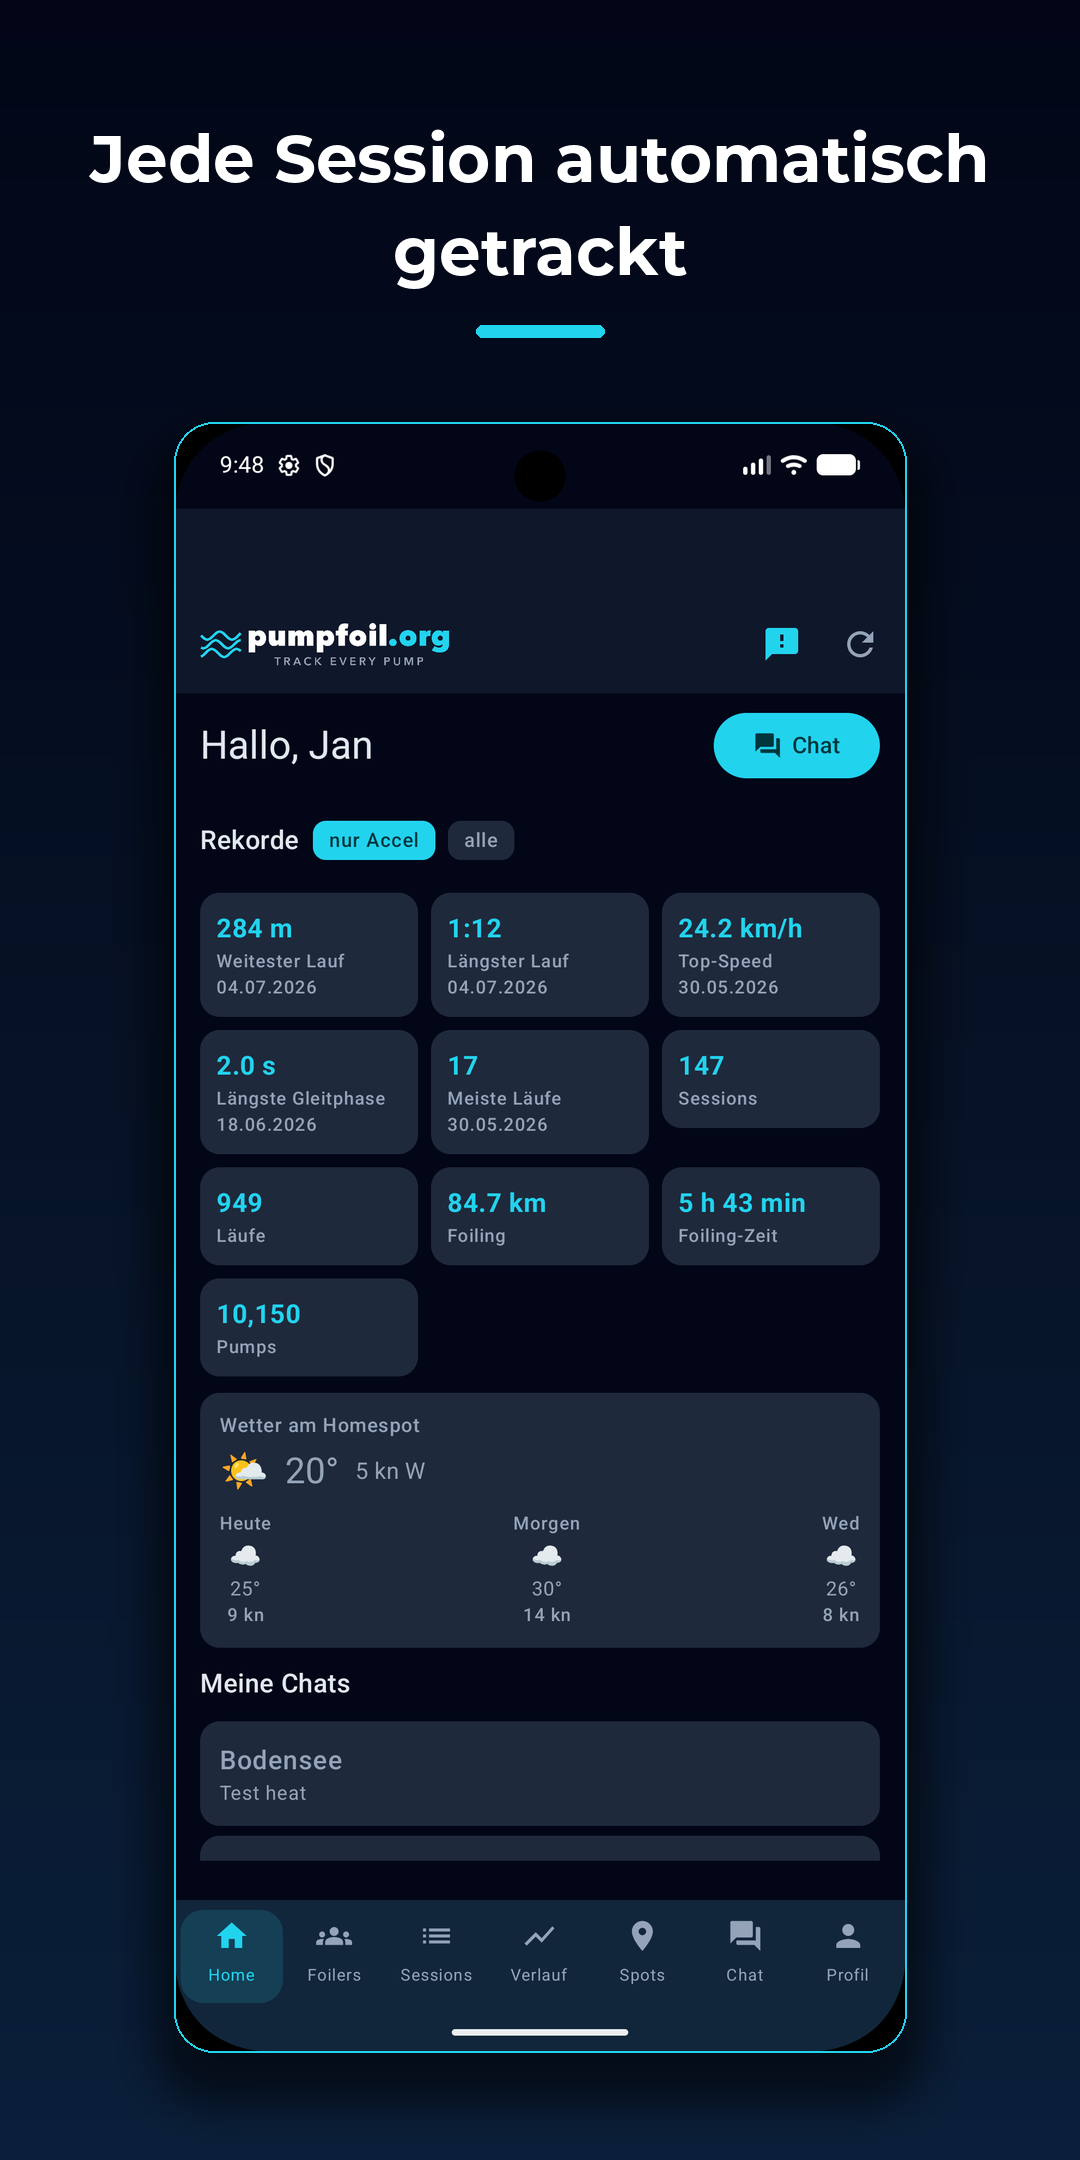
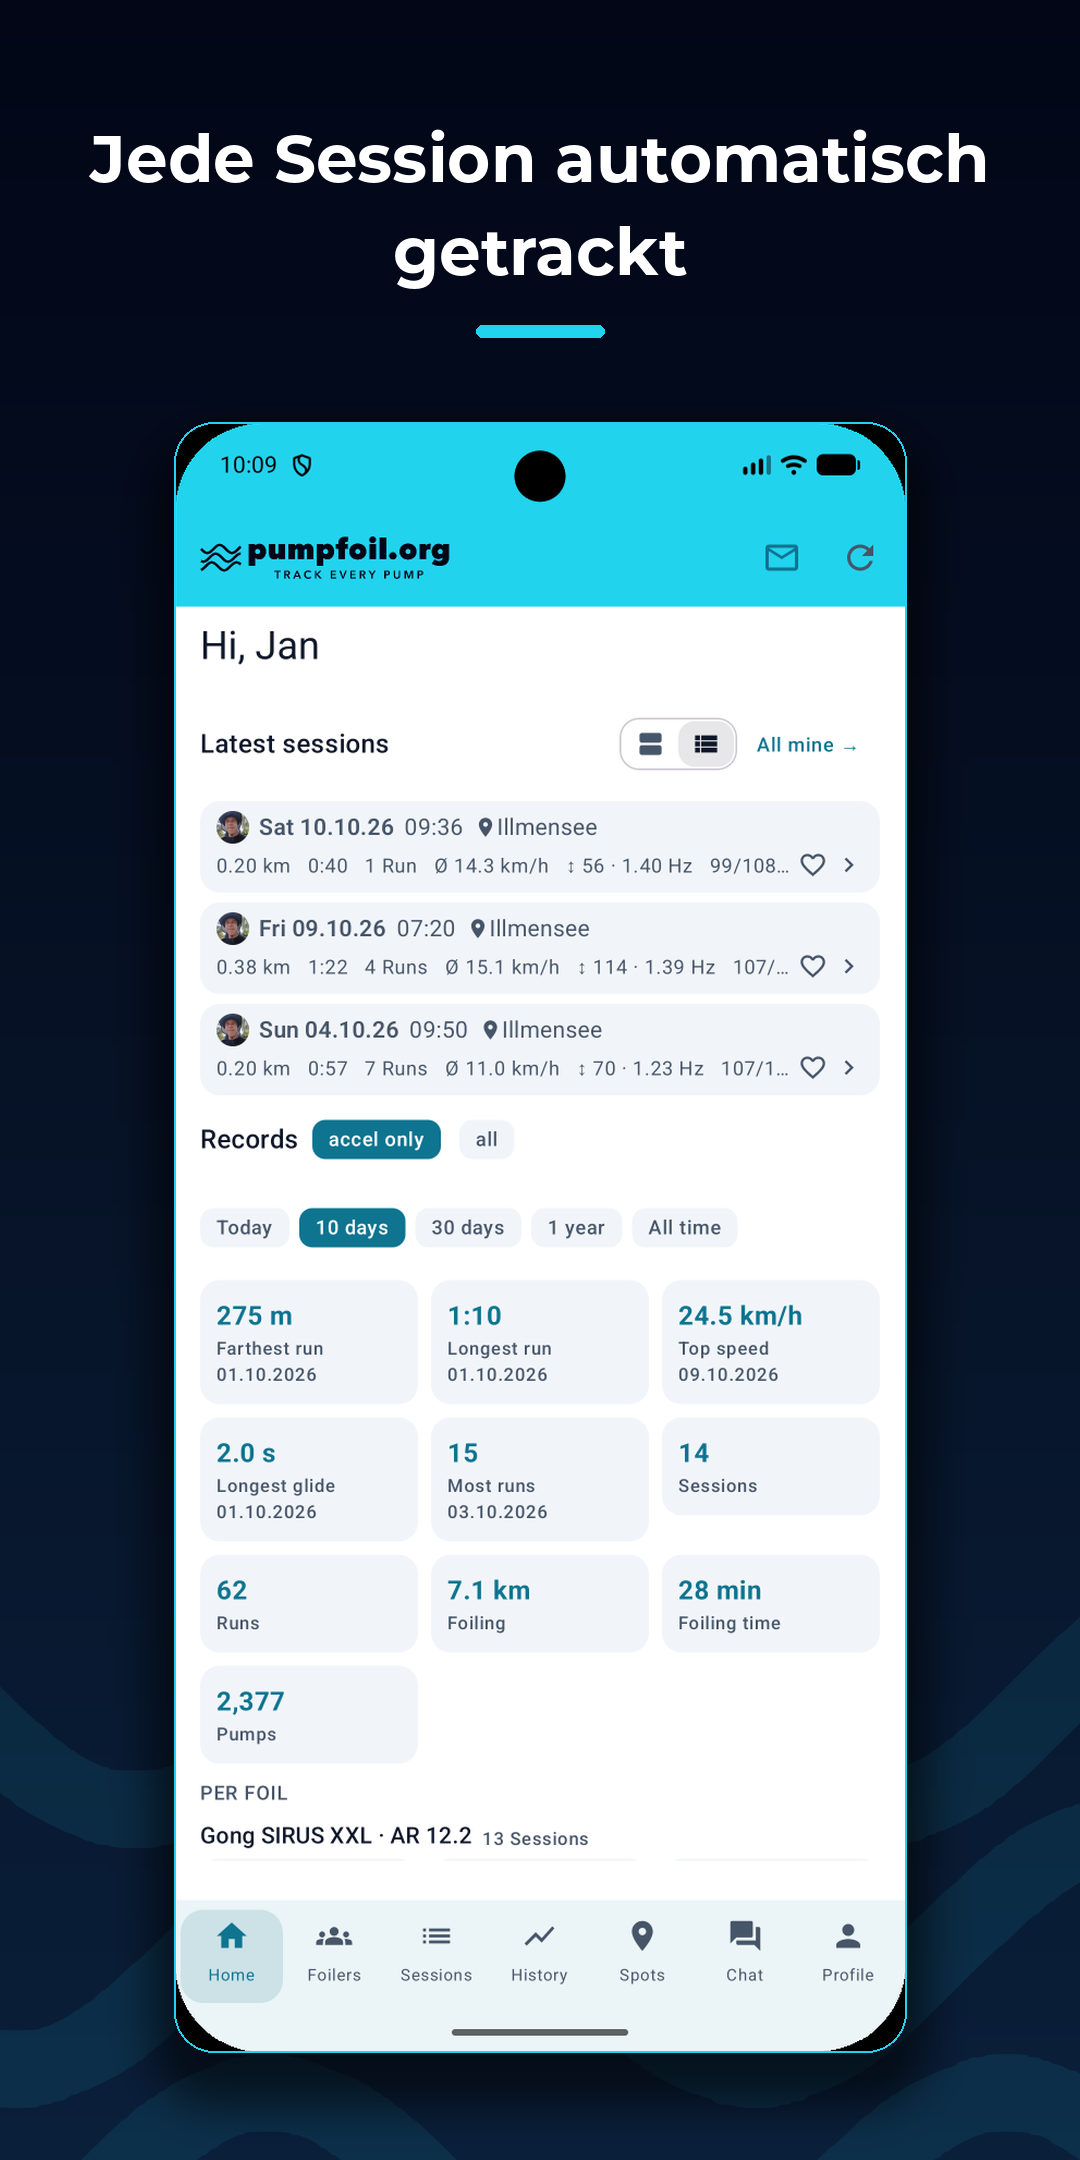
Play-Store-Bilder neu (8, aus Jans Android-Screenshots vom 10.10.)
- screenshots/mobile/android/20261010-neu/unkenntlich/: die 20 Aufnahmen mit unkenntlich
  gemachten Namen anderer Nutzer (Spot-Namen und Jans Name bleiben, Jan).
- make_store_previews.py liest Android jetzt von dort, neue Auswahl/Titel (u. a. „Handy am
  Brett: Nicken & Rollen", „Eigene Datenseiten fuer deine Uhr"), Option --nur-android
  (iOS-Bilder bleiben unberuehrt).
- android-store/01..08.png neu erzeugt (1080x2160). Hochladen in der Play Console: Jan.

Claude-Session: https://claude.ai/code/session_01SwpsW3PioXLbF9Wo2iJrfq

diff --git a/screenshots/mobile/make_store_previews.py b/screenshots/mobile/make_store_previews.py
@@ -9,7 +9,7 @@ Ausgabe:
   screenshots/mobile/ios-store/01..08.png     (1290x2796, App Store 6.7")
   screenshots/mobile/android-store/01..08.png (1080x2160, Play 2:1)
 
-Aufruf:  python screenshots/mobile/make_store_previews.py
+Aufruf:  python screenshots/mobile/make_store_previews.py [--nur-android]
 """
 from __future__ import annotations
 
@@ -164,7 +164,9 @@ def sorted_ios():
 
 
 def sorted_android():
-    return sorted(glob.glob(str(HERE / "android" / "*")))
+    # Seit 10.10.2026: Jans neue Emulator-Aufnahmen, Namen anderer Nutzer unkenntlich gemacht
+    # (01..20 = Reihenfolge der Original-Screenshots in android/20261010-neu/).
+    return sorted(glob.glob(str(HERE / "android" / "20261010-neu" / "unkenntlich" / "*.png")))
 
 
 # (Index in sortierter Liste [1-basiert], Titel)
@@ -179,30 +181,34 @@ IOS = [
     (34, "Dein Foil-Quiver & Leistung"),
 ]
 ANDROID = [
-    (3,  "Jede Session automatisch getrackt"),
-    (8,  "Jeder Lauf auf der Karte"),
-    (9,  "Distanz · Speed · Pumps · Puls"),
-    (13, "Dein Fortschritt über Zeit"),
-    (14, "Teile deine Session-Card"),
-    (12, "Community, Spots & Rekorde"),
-    (5,  "Chat mit anderen Foilern"),
-    (32, "Alle Spots auf der Karte"),
+    (2,  "Jede Session automatisch getrackt"),
+    (7,  "Jeder Lauf auf der Karte"),
+    (6,  "Distanz · Speed · Pumps · Puls"),
+    (11, "Dein Fortschritt über Zeit"),
+    (16, "Handy am Brett: Nicken & Rollen"),
+    (4,  "Community, Spots & Rekorde"),
+    (13, "Eigene Datenseiten für deine Uhr"),
+    (8,  "Alle Spots auf der Karte"),
 ]
 
 
 def main():
+    import sys
+    nur_android = "--nur-android" in sys.argv   # iOS-Quellen nicht noetig, iOS-Bilder bleiben unberuehrt
     cache: dict = {}
     ios_files, an_files = sorted_ios(), sorted_android()
     print(f"iOS-Quellen: {len(ios_files)} · Android-Quellen: {len(an_files)}")
 
     # App Store Connect (2025): 6.9" = 1320x2868 (Pflicht-Slot), 6.5" = 1242x2688.
     # Der alte 6.7"-Slot (1290x2796) existiert nicht mehr -> "falsche Auflösung".
-    print("iOS 6.9\" (1320x2868):")
-    for i, (idx, title) in enumerate(IOS, 1):
+    if nur_android:
+        ios_files = []
+    print("iOS 6.9\" (1320x2868):") if ios_files else None
+    for i, (idx, title) in enumerate(IOS if ios_files else [], 1):
         make(ios_files[idx - 1], title, (1320, 2868),
              HERE / "ios-store" / f"{i:02d}.png", cache)
-    print("iOS 6.5\" (1242x2688):")
-    for i, (idx, title) in enumerate(IOS, 1):
+    print("iOS 6.5\" (1242x2688):") if ios_files else None
+    for i, (idx, title) in enumerate(IOS if ios_files else [], 1):
         make(ios_files[idx - 1], title, (1242, 2688),
              HERE / "ios-store-65" / f"{i:02d}.png", cache)
 
